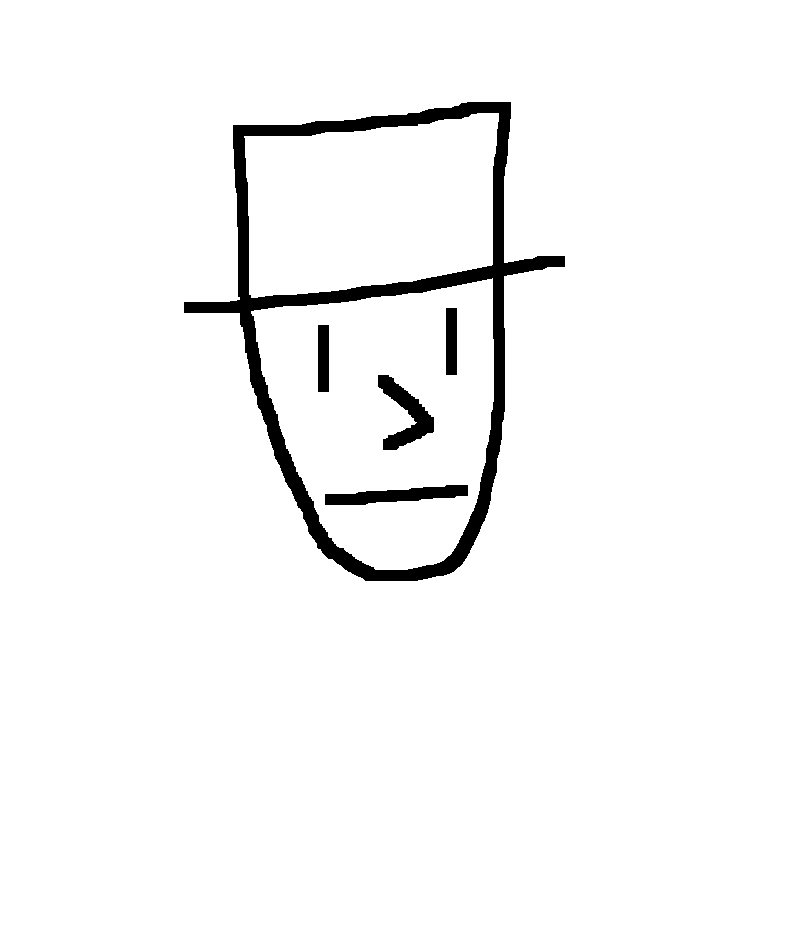
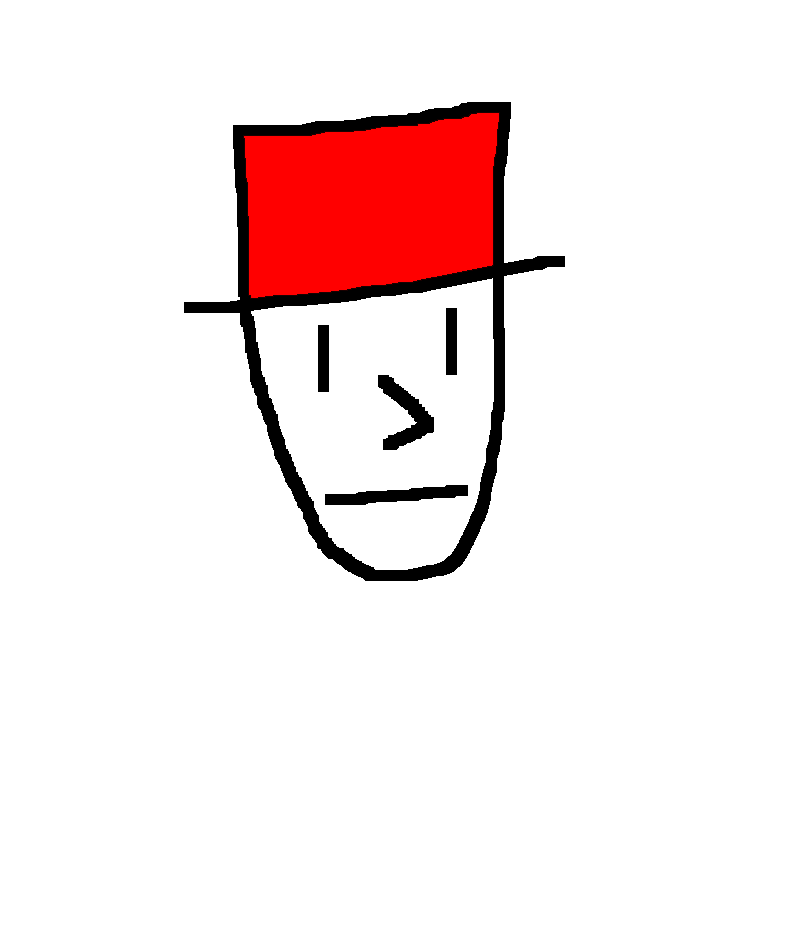
Color detection script

Changed region(s): [[0.2812, 0.1241, 0.625, 0.3412]]

diff --git a/Assets/Scripts/TestCVScript.cs b/Assets/Scripts/TestCVScript.cs
@@ -1,6 +1,5 @@
-using System.Collections;
-using System.Collections.Generic;
-using System.IO;
+using System.IO;
+using System.Linq;
 using UnityEngine;
 using OpenCVForUnity.CoreModule;
 using OpenCVForUnity.UnityUtils;
@@ -11,13 +10,6 @@ public class TestCVScript : MonoBehaviour
     public Sprite easelSprite;
     public Sprite compareSprite;
     private string path = "C:/Users/Paul/Desktop/";
-    private Mat kernel_erode;
-
-    void Start()
-    {
-        int thickness = 30;
-        kernel_erode = new Mat(thickness, thickness, CvType.CV_8UC1);
-    }
 
     void Update()
     {
@@ -29,38 +21,59 @@ public class TestCVScript : MonoBehaviour
 
     void CompareTwoImages()
     {
-        print("Ratio: " + imageToOriginal(easelSprite.texture, compareSprite.texture));
+        Color[] colors = new[] { Color.black, Color.red };
+        float[] scores = colors.Select(
+            color =>
+            {
+                float score = compareImageToOriginal(easelSprite.texture, compareSprite.texture, color);
+                print("Score: " + score);
+                return score;
+            }
+        ).ToArray();
+        print("Final score: " + scores.Average());
     }
 
-    float imageToOriginal(Texture2D userTexture, Texture2D originalTexture)
+    float compareImageToOriginal(Texture2D userTexture, Texture2D originalTexture, Color color)
     {
-        Mat originalMat = TextureToBWMat(originalTexture);
-        Mat userMat = TextureToBWMat(userTexture);
-        Imgproc.threshold(userMat, userMat, 70, 255, Imgproc.THRESH_BINARY);
+        Scalar colorScalar = ColorToRGBScalar(color);
+        Mat originalMat = TextureToMat(originalTexture);
+        Mat userMat = TextureToMat(userTexture);
+
+        Mat ogMasked = new Mat();
+        Core.inRange(originalMat, colorScalar, colorScalar, ogMasked);
+
+        Mat userMasked = new Mat();
+        Core.inRange(userMat, colorScalar, colorScalar, userMasked);
+
+        Imgproc.threshold(userMasked, userMasked, 50, 255, Imgproc.THRESH_BINARY_INV);
+        Imgproc.threshold(ogMasked, ogMasked, 50, 255, Imgproc.THRESH_BINARY_INV);
 
         // Crop images to original
         Mat invertedOg = new Mat();
-        Core.bitwise_not(originalMat, invertedOg);
+        Core.bitwise_not(ogMasked, invertedOg);
+
         (Point start, Point end) = CropMatBounds(invertedOg);
         OpenCVForUnity.CoreModule.Rect roi = new OpenCVForUnity.CoreModule.Rect(end, start);
-        originalMat = new Mat(originalMat, roi);
-        userMat = new Mat(userMat, roi);
+        ogMasked = new Mat(ogMasked, roi);
+        userMasked = new Mat(userMasked, roi);
         invertedOg = new Mat(invertedOg, roi);
 
-        Imgproc.erode(originalMat, originalMat, kernel_erode);
-        Imgproc.erode(userMat, userMat, kernel_erode);
+        int thickness = color == Color.black ? 30 : 40;
+        Mat kernel_erode = new Mat(thickness, thickness, CvType.CV_8UC1);
+        Imgproc.erode(ogMasked, ogMasked, kernel_erode);
+        Imgproc.erode(userMasked, userMasked, kernel_erode);
         Imgproc.dilate(invertedOg, invertedOg, kernel_erode);
 
-        Mat differencesMat = new Mat(userMat.rows(), userMat.cols(), CvType.CV_8UC4);
-        Core.subtract(userMat, originalMat, differencesMat);
+        Mat differencesMat = new Mat(userMasked.rows(), userMasked.cols(), CvType.CV_8UC4);
+        Core.subtract(userMasked, ogMasked, differencesMat);
 
         Mat originalWhite = new Mat();
         Mat croppedDiffWhite = new Mat();
         Core.findNonZero(invertedOg, originalWhite);
         Core.findNonZero(differencesMat, croppedDiffWhite);
 
-        // SaveMatToFile(invertedOg, "original");
-        // SaveMatToFile(differencesMat, "diffs");
+        // SaveMatToFile(invertedOg, "inverted" + (color == Color.black ? "black" : "red"));
+        // SaveMatToFile(differencesMat, "diffs" + (color == Color.black ? "black" : "red"));
 
         float ratio = (float)croppedDiffWhite.rows() / (float)originalWhite.rows();
         return 1f - Mathf.Min(ratio, 1f);
@@ -153,11 +166,15 @@ public class TestCVScript : MonoBehaviour
         return (new Point(xStart, yStart), new Point(xEnd, yEnd));
     }
 
-    Mat TextureToBWMat(Texture2D texture)
+    Scalar ColorToRGBScalar(Color color)
+    {
+        return new Scalar(color.r * 255, color.g * 255, color.b * 255, 255);
+    }
+
+    Mat TextureToMat(Texture2D texture)
     {
         Mat output = new Mat(texture.height, texture.width, CvType.CV_8UC4);
         Utils.texture2DToMat(texture, output, false);
-        Imgproc.cvtColor(output, output, Imgproc.COLOR_BGR2GRAY);
         return output;
     }
 
